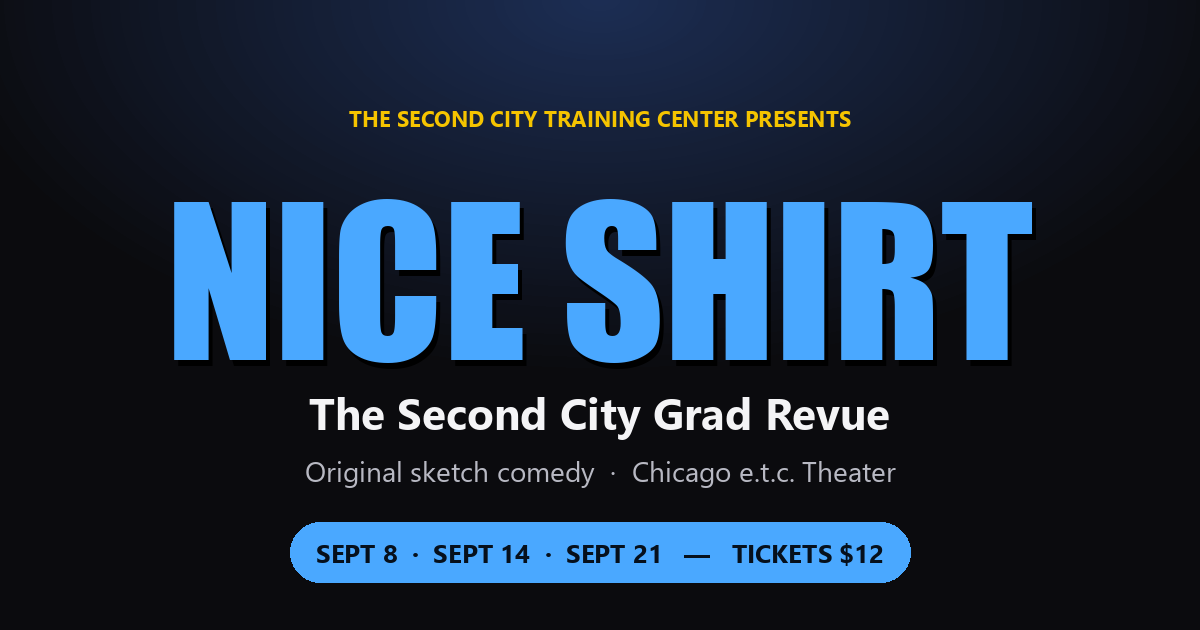
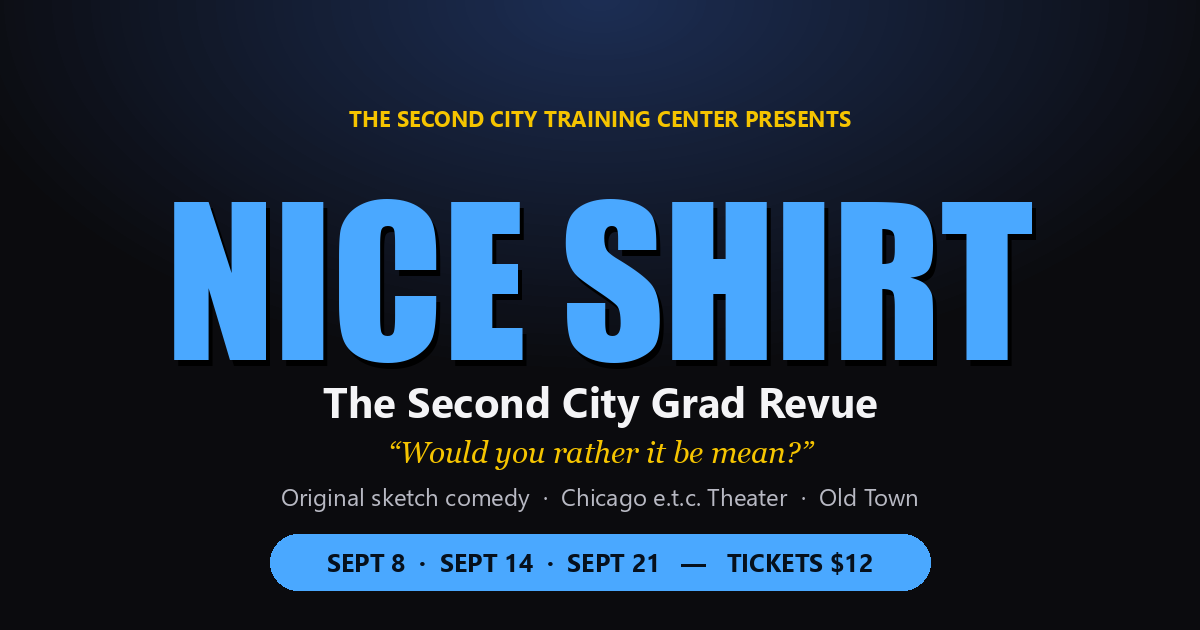
v0.5.1 - SEO, social card and mobile pass
- Title, description and keywords rewritten around Second City / sketch
  comedy / Chicago e.t.c. Theater searches; geo meta added
- OG/Twitter descriptions carry the tagline; og.png regenerated with it;
  og:image:type added
- Structured data: WebSite + TheaterGroup nodes, events list performers,
  director and description
- Mobile: all four nav links fit on one row (brand subtitle hidden under
  480px); closing pill shortened to 'Graduation / Closing'
- Sarah 'Swannie' Willstein credited with her nickname

Changed region(s): [[0.2158, 0.6032, 0.8017, 0.9651]]

diff --git a/index.html b/index.html
@@ -3,9 +3,13 @@
 <head>
 <meta charset="UTF-8">
 <meta name="viewport" content="width=device-width, initial-scale=1.0">
-<title>NICE SHIRT v0.5.0 — The Second City Grad Revue</title>
-<meta name="app-version" content="0.5.0">
-<meta name="description" content="NICE SHIRT brings The Second City Grad Revue to the stage with original sketch comedy developed from weeks of improv and process shows. Tickets for Sept 8, 14 and 21 at the Chicago e.t.c. Theater.">
+<title>NICE SHIRT v0.5.1 — The Second City Grad Revue | Sketch Comedy at the Chicago e.t.c. Theater</title>
+<meta name="app-version" content="0.5.1">
+<meta name="description" content="NICE SHIRT is The Second City Grad Revue: original sketch comedy from the Conservatory graduating class, live at the Chicago e.t.c. Theater in Old Town. Shows Sept 8, 14 and 21, 2026. Tickets $12, cast, bios, programs and venue info.">
+<meta name="keywords" content="NICE SHIRT, Second City, Second City Grad Revue, Second City Training Center, Conservatory Graduation Show, sketch comedy Chicago, improv Chicago, e.t.c. Theater, Old Town Chicago comedy, Waiting for the Punchline, comedy show tickets September 2026">
+<meta name="author" content="NICE SHIRT cast">
+<meta name="geo.region" content="US-IL">
+<meta name="geo.placename" content="Chicago">
 <meta name="robots" content="index, follow, max-image-preview:large">
 <link rel="canonical" href="https://niceshirt.rizzo.cc/">
 <meta name="theme-color" content="#0b0b0e">
@@ -18,16 +22,17 @@
 <meta property="og:type" content="website">
 <meta property="og:site_name" content="NICE SHIRT">
 <meta property="og:title" content="NICE SHIRT — The Second City Grad Revue">
-<meta property="og:description" content="Original sketch comedy at the Chicago e.t.c. Theater. Sept 8, 14 &amp; 21, 2026. Tickets $12.">
+<meta property="og:description" content="The Second City Grad Revue. Original sketch comedy at the Chicago e.t.c. Theater, Sept 8, 14 &amp; 21, 2026. Tickets $12. Would you rather it be mean?">
 <meta property="og:url" content="https://niceshirt.rizzo.cc/">
 <meta property="og:image" content="https://niceshirt.rizzo.cc/assets/og.png">
 <meta property="og:image:width" content="1200">
 <meta property="og:image:height" content="630">
+<meta property="og:image:type" content="image/png">
 <meta property="og:image:alt" content="NICE SHIRT — The Second City Grad Revue">
 <meta property="og:locale" content="en_US">
 <meta name="twitter:card" content="summary_large_image">
 <meta name="twitter:title" content="NICE SHIRT — The Second City Grad Revue">
-<meta name="twitter:description" content="Original sketch comedy at the Chicago e.t.c. Theater. Sept 8, 14 &amp; 21, 2026. Tickets $12.">
+<meta name="twitter:description" content="The Second City Grad Revue. Original sketch comedy at the Chicago e.t.c. Theater, Sept 8, 14 &amp; 21, 2026. Tickets $12.">
 <meta name="twitter:image" content="https://niceshirt.rizzo.cc/assets/og.png">
 
 <link rel="preconnect" href="https://fonts.googleapis.com">
@@ -101,7 +106,8 @@ a{color:var(--blue-2)}
 .nav a:hover{color:#fff;background:rgba(255,255,255,.06)}
 .nav a.cta{background:var(--blue);color:#06101c}
 .nav a.cta:hover{background:var(--blue-2);color:#06101c}
-@media (max-width:640px){.nav a:not(.cta){display:none}}
+@media (max-width:640px){.nav{gap:2px}.nav a{font-size:11px;padding:7px 7px;letter-spacing:.1em}.brand{font-size:19px}.brand small{font-size:9px;letter-spacing:.2em}}
+@media (max-width:480px){.top .wrap{gap:8px;min-height:52px}.nav{gap:0}.nav a{padding:7px 5px;letter-spacing:.06em}.nav a.cta{padding:7px 9px}.brand small{display:none}}
 
 /* ---------- hero ---------- */
 .hero{
@@ -558,14 +564,14 @@ footer a:hover{color:#fff}
 <footer>
   <div class="wrap">
     NICE SHIRT &middot; The Second City Grad Revue &middot; Chicago e.t.c. Theater
-    <span class="ver">v0.5.0</span>
+    <span class="ver">v0.5.1</span>
     <div style="margin-top:8px"><a href="https://rizzo.cc/">rizzo.cc</a></div>
   </div>
 </footer>
 
 <script>
-const APP_VERSION = '0.5.0';
-document.title = 'NICE SHIRT v' + APP_VERSION + ' — The Second City Grad Revue';
+const APP_VERSION = '0.5.1';
+document.title = 'NICE SHIRT v' + APP_VERSION + ' — The Second City Grad Revue | Sketch Comedy at the Chicago e.t.c. Theater';
 
 /* One entry per performance. Chicago time (CDT = -05:00 through early November). */
 const SHOWS = [
@@ -576,7 +582,7 @@ const SHOWS = [
   { group:'run', start:'2026-08-31T20:00:00-05:00', label:'Opening Night', tag:'blue', price:'$12.00', url:'' },
   { group:'run', start:'2026-09-08T20:00:00-05:00', label:'Performance',   tag:'',     price:'$12.00', url:'https://us.tickets.secondcity.com/checkout/6a735a25b161a77967a0d1d1' },
   { group:'run', start:'2026-09-14T20:00:00-05:00', label:'Performance',   tag:'',     price:'$12.00', url:'https://us.tickets.secondcity.com/checkout/6a735a8e28c8b3752699aa42' },
-  { group:'run', start:'2026-09-21T19:00:00-05:00', label:'Graduation / Closing Show', tag:'gold', price:'$12.25', priceNote:'$10.00 + $2.25 per-ticket fee', note:'Show starts at 7:00 PM with WAITING FOR THE PUNCHLINE. NICE SHIRT is the final group, on at 8:30 PM.', url:'https://us.tickets.secondcity.com/checkout/6a735912cef5c36380eda65a' },
+  { group:'run', start:'2026-09-21T19:00:00-05:00', label:'Graduation / Closing', tag:'gold', price:'$12.25', priceNote:'$10.00 + $2.25 per-ticket fee', note:'Show starts at 7:00 PM with WAITING FOR THE PUNCHLINE. NICE SHIRT is the final group, on at 8:30 PM.', url:'https://us.tickets.secondcity.com/checkout/6a735912cef5c36380eda65a' },
 ];
 const RUN_MS = 3 * 60 * 60 * 1000; /* a show counts as "past" 3 hours after curtain */
 
@@ -603,7 +609,7 @@ const CAST_WP = [
   ['Michael Nicholas','michael-nicholas'],
   ['Tucker Brewster Schuster','tucker-brewster-schuster'],
   ['Kallie Scott','kallie-scott'],
-  ['Sarah Willstein','sarah-willstein'],
+  ['Sarah "Swannie" Willstein','sarah-willstein'],
   ['Christopher Willumsen','christopher-willumsen'],
 ];
 
@@ -631,7 +637,7 @@ const BIOS = {
   'Michael Nicholas': { role:'WAITING FOR THE PUNCHLINE cast', text:['Michael Nicholas is an actor, singer, and sandwich enthusiast, originally from Palatine, IL. He received his BA in Theatre Arts from Marquette University in 2018, where he was the proud recipient of the Chris Farley Memorial Scholarship. Since then, he\'s performed Shakespeare across Wisconsin, spent two years singing on Mississippi River paddlewheel boats, and most recently, gave architecture tours on the Chicago River. Now, he uses his expertise as a travel advisor at Travel Gallery, Inc. (take a trip!). He sincerely hopes you enjoy the show!'] },
   'Tucker Brewster Schuster': { pronouns:'he/him', role:'WAITING FOR THE PUNCHLINE cast', text:['Tucker Brewster Schuster is from Sleepy Eye, MN. (Yes, he knows he sounds like a cartoon character.) Before moving to Chicago, Tucker has spent the past few years performing all around the world as a stunt man, an actor, and a stilt walker! He enjoys playing Magic the Gathering, Power Lifting, doing Gymnastics, and doing silly little bits. He wants to thank his girlfriend, Jessica, for all of the love and support.'], links:[['Instagram @tucktuckno','https://www.instagram.com/tucktuckno/']] },
   'Kallie Scott': { pronouns:'she/her', role:'WAITING FOR THE PUNCHLINE cast', text:['Kallie Scott, born and raised in West Texas, comes to the Second City Training Center in a bold attempt to prove to herself that she really is funny. Kallie holds a B.A. in Theatre from West Texas A&M University and a M.F.A. in acting from Western Illinois University. She has been known to sneak around Chicago and perform a little stand-up or jump on a sketch show. Follow her on Instagram for show dates.'], links:[['Instagram @kallie_scott','https://www.instagram.com/kallie_scott/']] },
-  'Sarah Willstein': { pronouns:'she/her', role:'WAITING FOR THE PUNCHLINE cast', text:['Sarah "Swannie" Willstein grew up in Missoula, MT and graduated St. Olaf College with a degree in English, and an emphasis in creative writing. Swannie\'s comedy career began March 9, 1998 when her younger brother was born and she became THE middle child. Since that impactful day she has performed improv, sketch, and stand up routines from the living room to The Second City stages. To continue to see Swannie\'s work, follow her on Instagram, and come see her live at Background Bits\'s next production! Swannie would like to thank her friends and family for their support and encouragement throughout her conservatory experience.'], links:[['Instagram @swanniewills','https://www.instagram.com/swanniewills/']] },
+  'Sarah "Swannie" Willstein': { pronouns:'she/her', role:'WAITING FOR THE PUNCHLINE cast', text:['Sarah "Swannie" Willstein grew up in Missoula, MT and graduated St. Olaf College with a degree in English, and an emphasis in creative writing. Swannie\'s comedy career began March 9, 1998 when her younger brother was born and she became THE middle child. Since that impactful day she has performed improv, sketch, and stand up routines from the living room to The Second City stages. To continue to see Swannie\'s work, follow her on Instagram, and come see her live at Background Bits\'s next production! Swannie would like to thank her friends and family for their support and encouragement throughout her conservatory experience.'], links:[['Instagram @swanniewills','https://www.instagram.com/swanniewills/']] },
   'Christopher Willumsen': { role:'WAITING FOR THE PUNCHLINE cast', text:['Chris Willumsen was last seen on stage understudying Artistic Home\'s Superior Donuts and Artist Home Ensemble\'s Cut to the Chase. Prior to that, he appeared in Synetic Theater\'s The Trial in D.C. Chris made his directorial debut with Yas, And Comedy\'s pilot show "Yas, And!" in June, 2025, presented at the Annoyance Theatre, since then he has directed "Slay!", "Queers & Fears", and most recently "Blue Dress!"'], links:[['Instagram @CWillumsen_','https://www.instagram.com/cwillumsen_/']] },
 
   'Jeff Bouthiette': { role:'Director, NICE SHIRT', text:['Jeff Bouthiette is a Chicago-based director and music director of theater and comedy. They recently served as director at the Second City New York where they directed Wreck the Halls and The Second City Swipes Right (devised comedic shows), Sketch and the City (scripted comedy), and Salt Pepper Ketchup, Everything Festive All at Once, and Reindeer Games (improvisational comedy). Jeff serves as an adjunct professor at the DePaul Theatre School and directed Everything You\'re About to See is Normal and Okay (devised) and Vampire Lesbians of Sodom.','For a decade, Jeff served as the Head of the Music Program at the Second City Training Center in Chicago, where they directed over a hundred student productions. Jeff is a sought-after director of sketch comedy and new musicals, and in Chicago directed the premieres of Altered Boy (Pride Films and Plays), Choice! The Musical (MCL Chicago), and Miami Nice! (Gorilla Tango). Jeff got their start as Founding Co-Artistic Director of Bare Boned Theatre, producing the long-running LGBTQ+ soap opera The Ville. They directed five episodes of the soap opera, as well as serving on the writing staff and overseeing the artistic product. They also directed Bare Boned Theatre\'s adaptation of Euripides\' Hecuba, The Hecubae.'] },
@@ -727,9 +733,13 @@ function render(){
   }
 
   /* Structured data: one TheaterEvent per upcoming ticketed performance */
+  const performers = CAST.map(([n]) => ({ '@type': 'Person', name: n }));
   const events = rows.filter(r => !r.past && r.s.url).map(({ s }) => ({
     '@type': 'TheaterEvent',
-    name: 'NICE SHIRT — The Second City Grad Revue',
+    name: 'NICE SHIRT — The Second City Grad Revue' + (s.label !== 'Performance' ? ' (' + s.label + ')' : ''),
+    description: 'Original sketch comedy from The Second City Conservatory graduating class. Double bill with WAITING FOR THE PUNCHLINE; one ticket covers both revues.' + (s.note ? ' ' + s.note : ''),
+    performer: performers,
+    director: { '@type': 'Person', name: 'Jeff Bouthiette' },
     startDate: s.start,
     eventStatus: 'https://schema.org/EventScheduled',
     eventAttendanceMode: 'https://schema.org/OfflineEventAttendanceMode',
@@ -740,7 +750,16 @@ function render(){
     image: 'https://niceshirt.rizzo.cc/assets/og.png',
     url: 'https://niceshirt.rizzo.cc/'
   }));
-  document.getElementById('ld-events').textContent = JSON.stringify({ '@context': 'https://schema.org', '@graph': events });
+  const site = {
+    '@type': 'WebSite', '@id': 'https://niceshirt.rizzo.cc/#site', url: 'https://niceshirt.rizzo.cc/',
+    name: 'NICE SHIRT — The Second City Grad Revue', inLanguage: 'en-US',
+    description: document.querySelector('meta[name=description]').content
+  };
+  const group = {
+    '@type': 'TheaterGroup', '@id': 'https://niceshirt.rizzo.cc/#group', name: 'NICE SHIRT', url: 'https://niceshirt.rizzo.cc/',
+    member: performers, image: 'https://niceshirt.rizzo.cc/assets/og.png'
+  };
+  document.getElementById('ld-events').textContent = JSON.stringify({ '@context': 'https://schema.org', '@graph': [site, group, ...events] });
 }
 render();
 </script>
